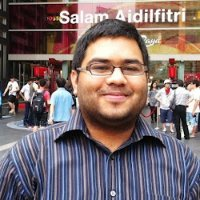
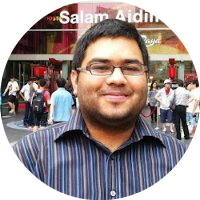
updaded css

diff --git a/index.html b/index.html
@@ -8,7 +8,7 @@
   <meta name="keywords" content="onepage, resume, CV HTML template, personal Vcard, html resume, free resume template, free HTML template, free bootstrap template, personal portfolio, free html portfolio">
 	<meta name="author" content="http://trendytheme.net/">
 
-	<title>IAMX – Responsive Personal Portfolio vCard Template</title>
+	<title>Welcome To iDevelopApp.com</title>
 
   <!-- Web Fonts -->
   <link href='http://fonts.googleapis.com/css?family=Roboto:400,300,500,700' rel='stylesheet' type='text/css'>
@@ -41,18 +41,18 @@
 </head>
 
 <body>
-	<!-- Preloader -->
+	<!-- Preloader 
 	<div id="tt-preloader">
 		<div id="pre-status">
 			<div class="preload-placeholder"></div>
 		</div>
-	</div>
+	</div>-->
 
 	<!-- Home Section -->
 	<section id="home" class="tt-fullHeight" data-stellar-vertical-offset="50" data-stellar-background-ratio="0.2">
 		<div class="intro">
-			<div class="intro-sub">I am X</div>
-			<h1>Creative <span>Designer</span></h1>
+			<div class="intro-sub">Sayed Ahsanul Hoque Jewel</div>
+			<h1>Web <span>Developer</span></h1>
 			<p>I am a fully professional freelance creative User Interface Designer &amp; Developer<br> Involving with latest web designing and technologies is a great <br> feel free to contact creative.</p>
 
       <div class="social-icons">
@@ -117,12 +117,12 @@
                 <img src="assets/images/myphoto.jpg" alt="">
               </div>
               <ul>
-                <li><strong>Name:</strong> John Doe</li>
-                <li><strong>Date of birth:</strong> 05 Dec 1993</li>
-                <li><strong>Address:</strong> 239/2 Awesome Street, USA</li>
-                <li><strong>Nationality:</strong> American</li>
-                <li><strong>Phone:</strong> (000) 1234 56789</li>
-                <li><strong>Email:</strong> yourmail@iamx.com</li>
+                <li><strong>Name: </strong>Sayed Ahsanul Hoque Jewel</li>
+                <li><strong>Date of birth: </strong>10. December 1990</li>
+                <li><strong>Address: </strong>Dhaka, Bangladesh</li>
+                <li><strong>Nationality: </strong>Bangladeshi</li>
+                <li><strong>Phone: </strong>+88-01830451631</li>
+                <li><strong>Email: </strong>admin@idevelopapp.com</li>
               </ul>
             </div>
           </div> <!-- col-md-4 -->
@@ -130,20 +130,20 @@
           <div class="col-md-8 col-md-pull-4">
             <div class="short-info wow fadeInUp">
               <h3>Objective</h3>
-              <p>An opportunity to work and upgrade oneself, as well as being involved in an organization that believes in gaining a competitive edge and giving back to the community. I'm presently expanding my solid experience in UI / UX design. I focus on using my interpersonal skills to build good user experience and create a strong interest in my employers. I hope to develop skills in motion design and my knowledge of the Web, and become an honest asset to the business. As an individual, I'm self-confident you’ll find me creative, funny and naturally passionate. I’m a forward thinker, which others may find inspiring when working as a team.</p>
+              <p>I am looking for opportunities where I can put my skills to the test. I specifically want employers who are looking for loyal and dedicated employees who is also an avid learner to help them streamline their business and remove outdated and redundant processes. I'm presently expanding my knowledge & experience in web app development. As an individual, I'm self-confident you’ll find me curious, analytic and truely passionate about computers & technology. I’m a forward thinker, which others may find inspiring when working as a team.</p>
             </div>
 
             <div class="short-info wow fadeInUp">
               <h3>What I Do ?</h3>
-              <p>I have been working as a web interface designer since. I have a love of clean, elegant styling, and I have lots of experience in the production of CSS3 and HTML5 for modern websites. I loving creating awesome as per my clients’ need. I think user experience when I try to craft something for my clients. Making a design awesome.</p>
+              <p>I have 2 years of hands on experience in various web application development languages including Java, PHP, C#, Ruby, Node.JS, Python and SQL as well as mobile app development technologies like objective-c, Java, Phonegap and Titanium. I'm well versed in system administration in various linux distribution including Redhat and Ubuntu. In addition, i'm very well familiar with various networking protocols, router and switch configurations from commercial vendors such as cisco.</p>
 
               <ul class="list-check">
-                <li>User Experience Design</li>
-                <li>Interface Design</li>
-                <li>Product Design</li>
-                <li>Branding Design</li>
-                <li>Digital Painting</li>
-                <li>Video Editing</li>
+                <li>Web App Development</li>
+                <li>Desktop App Development</li>
+                <li>Complex Product Design</li>
+                <li>Serverside Scripting</li>
+                <li>System Administration</li>
+                <li>Network Administration</li>
               </ul>
             </div>
 

diff --git a/assets/css/style.css b/assets/css/style.css
@@ -601,8 +601,11 @@ SOCIAL ICON
 
 .myphoto{
     position: relative;
-    background: url(../../assets/images/photo-frame.png) bottom center no-repeat;
+    /*background: url(../../assets/images/photo-frame.png) bottom center no-repeat;*/
     background-size: contain;
+	height:60%;
+	width:60%;
+	margin: 0 auto;
 }
 
 .myphoto img{
